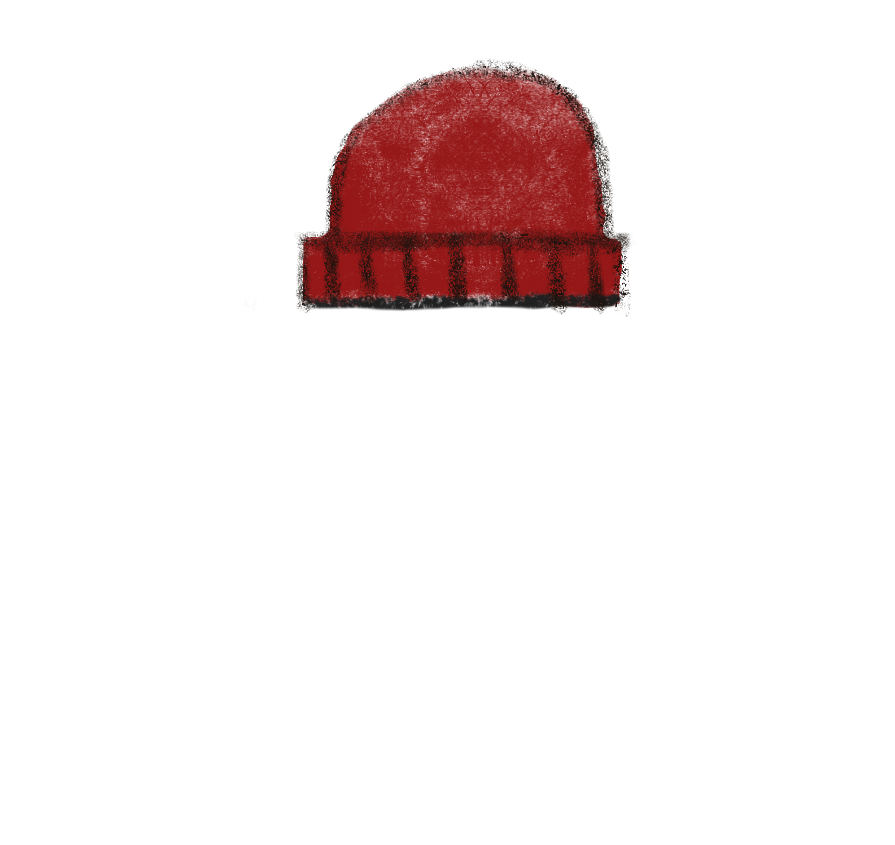
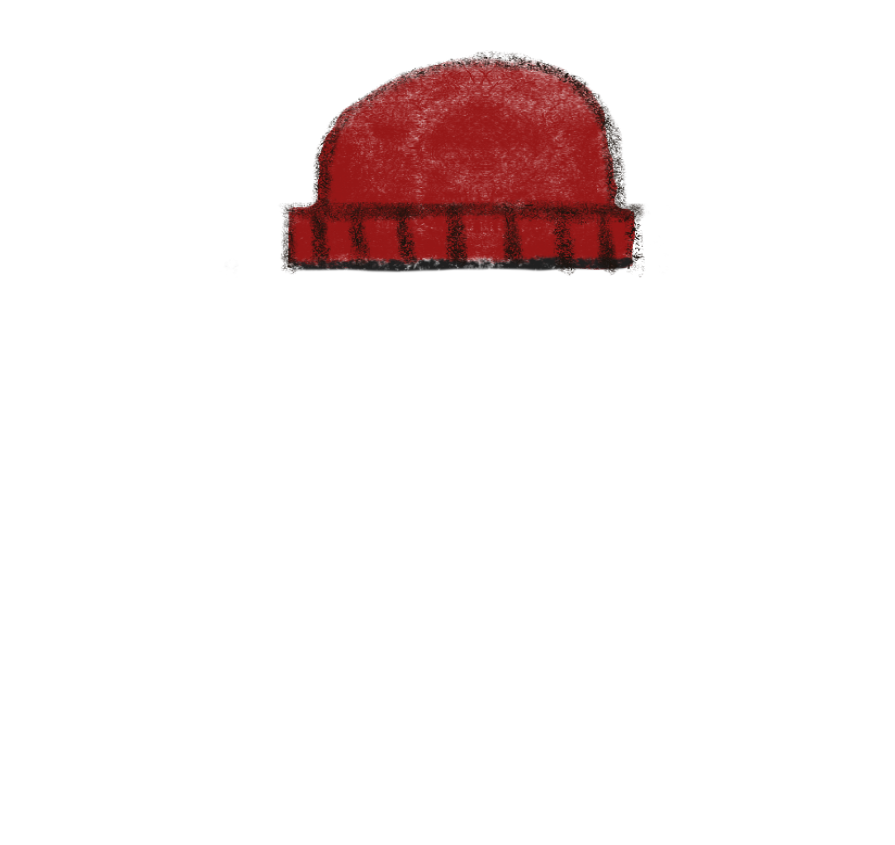
profile image displays correctly on profile page. next step: getting other users' profile images from the social page

Changed region(s): [[0.3017, 0.0615, 0.724, 0.3692]]

diff --git a/src/components/ProfileImage/ProfileImage.jsx b/src/components/ProfileImage/ProfileImage.jsx
@@ -26,10 +26,15 @@ function ProfileImage() {
   const [isEditingClass, setIsEditingClass] = useState('');
 
   const [currentSelections, setCurrentSelections] = useState({
-                            hat: 1, hair: 1,
-                            eyebrows: 1, eyes: 1,
-                            nose: 1, details: 1, mouth: 1,
-                            head: 1,body: 1,
+                            hat: user.profile_avatar_hat_id, 
+                            hair: user.profile_avatar_hair_id,
+                            eyebrows: user.profile_avatar_eyebrows_id, 
+                            eyes: user.profile_avatar_eyes_id,
+                            nose: user.profile_avatar_nose_id, 
+                            details: user.profile_avatar_detail_id, 
+                            mouth: user.profile_avatar_mouth_id,
+                            head: user.profile_avatar_head_id,
+                            body: user.profile_avatar_body_id
                           })
 
   const [detailMode, setDetailMode] = useState(false);
@@ -95,6 +100,8 @@ function ProfileImage() {
     let newProperty = {[newKey]: newValue};
     let newSelections = {...currentSelections, ...newProperty};
     
+    console.log('setting new selections. current:', currentSelections, 'new property:', newProperty);
+
     setCurrentSelections(newSelections);
   }
 
@@ -113,47 +120,56 @@ function ProfileImage() {
 
       <div className="avatarImagePieceParent" onClick={clickImage}>
 
-          {/*HAT*/} <ImagePiece   images={hats} updateCurrentSelections={updateCurrentSelections} pieceName={"hat"}
+          {/*HAT*/} <ImagePiece   images={hats} updateCurrentSelections={updateCurrentSelections} 
+                                  pieceName={"hat"} defaultIndex={user.profile_avatar_hat_id}
                                   topDistance={"40px"} zIndex={10} 
                                   zoomedImgClass={zoomedImageClass} zoomedDivClass={zoomedDividerClass} 
                                   editMode={editingMode} detailEditingMode={!detailMode}/>
 
-          {/*HAIR*/} <ImagePiece  images={hairs} updateCurrentSelections={updateCurrentSelections} pieceName={"hair"}
+          {/*HAIR*/} <ImagePiece  images={hairs} updateCurrentSelections={updateCurrentSelections} 
+                                  pieceName={"hair"} defaultIndex={user.profile_avatar_hair_id}
                                   topDistance={"90px"} zIndex={9} 
                                   zoomedImgClass={zoomedImageClass} zoomedDivClass={zoomedDividerClass} 
                                   editMode={editingMode} detailEditingMode={!detailMode}/>
 
-          {/*BROWS*/} <ImagePiece images={eyebrows} updateCurrentSelections={updateCurrentSelections} pieceName={"eyebrows"}
+          {/*BROWS*/} <ImagePiece images={eyebrows} updateCurrentSelections={updateCurrentSelections} 
+                                  pieceName={"eyebrows"} defaultIndex={user.profile_avatar_eyebrows_id}
                                   topDistance={"60px"} zIndex={6} 
                                   zoomedImgClass={zoomedImageClass} zoomedDivClass={zoomedDividerClass} 
                                   editMode={editingMode} detailEditingMode={detailMode}/>
 
-          {/*EYES*/} <ImagePiece  images={eyes} updateCurrentSelections={updateCurrentSelections} pieceName={"eyes"}
+          {/*EYES*/} <ImagePiece  images={eyes} updateCurrentSelections={updateCurrentSelections} 
+                                  pieceName={"eyes"} defaultIndex={user.profile_avatar_eyes_id}
                                   topDistance={"90px"} zIndex={3} 
                                   zoomedImgClass={zoomedImageClass} zoomedDivClass={zoomedDividerClass} 
                                   editMode={editingMode} detailEditingMode={detailMode}/>
 
-          {/*NOSE*/} <ImagePiece  images={noses} updateCurrentSelections={updateCurrentSelections} pieceName={"nose"}
+          {/*NOSE*/} <ImagePiece  images={noses} updateCurrentSelections={updateCurrentSelections} 
+                                  pieceName={"nose"} defaultIndex={user.profile_avatar_nose_id}
                                   topDistance={"120px"} zIndex={2} 
                                   zoomedImgClass={zoomedImageClass} zoomedDivClass={zoomedDividerClass} 
                                   editMode={editingMode} detailEditingMode={detailMode}/>
 
-          {/*DEET*/} <ImagePiece  images={faceDetails} updateCurrentSelections={updateCurrentSelections} pieceName={"details"}
+          {/*DEET*/} <ImagePiece  images={faceDetails} updateCurrentSelections={updateCurrentSelections} 
+                                  pieceName={"details"} defaultIndex={user.profile_avatar_detail_id}
                                   topDistance={"155px"} zIndex={2} 
                                   zoomedImgClass={zoomedImageClass} zoomedDivClass={zoomedDividerClass} 
                                   editMode={editingMode} detailEditingMode={detailMode}/>
 
-          {/*MOUTH*/} <ImagePiece images={mouths} updateCurrentSelections={updateCurrentSelections} pieceName={"mouth"}
+          {/*MOUTH*/} <ImagePiece images={mouths} updateCurrentSelections={updateCurrentSelections} 
+                                  pieceName={"mouth"} defaultIndex={user.profile_avatar_mouth_id}
                                   topDistance={"185px"} zIndex={2} 
                                   zoomedImgClass={zoomedImageClass} zoomedDivClass={zoomedDividerClass} 
                                   editMode={editingMode} detailEditingMode={detailMode}/>
 
-          {/*HEAD*/} <ImagePiece  images={heads} updateCurrentSelections={updateCurrentSelections} pieceName={"head"}
+          {/*HEAD*/} <ImagePiece  images={heads} updateCurrentSelections={updateCurrentSelections} 
+                                  pieceName={"head"} defaultIndex={user.profile_avatar_head_id}
                                   topDistance={"150px"} zIndex={1} 
                                   zoomedImgClass={zoomedImageClass} zoomedDivClass={zoomedDividerClass} 
                                   editMode={editingMode} detailEditingMode={!detailMode}/>
 
-          {/*BODY*/} <ImagePiece  images={bodies} updateCurrentSelections={updateCurrentSelections} pieceName={"body"}
+          {/*BODY*/} <ImagePiece  images={bodies} updateCurrentSelections={updateCurrentSelections} 
+                                  pieceName={"body"} defaultIndex={user.profile_avatar_body_id}
                                   topDistance={"200px"} zIndex={0} 
                                   zoomedImgClass={zoomedImageClass} zoomedDivClass={zoomedDividerClass} 
                                   editMode={editingMode} detailEditingMode={!detailMode}/>

diff --git a/src/components/ImagePiece/ImagePiece.jsx b/src/components/ImagePiece/ImagePiece.jsx
@@ -5,7 +5,8 @@ import { Button } from 'react-bootstrap';
 function ImagePiece(props) {
 
   const images = props.images;
-  const pieceName = props.pieceName
+  const pieceName = props.pieceName;
+  const defaultImageIndex = props.defaultIndex;
 
   const editingMode = props.editMode;
   const showMyArrows = props.detailEditingMode;
@@ -16,10 +17,13 @@ function ImagePiece(props) {
 
   const dispatch = useDispatch();
 
-  const [selectedImageIndex, setSelectedImageIndex] = useState(1);
-  const [selectedImagePath, setSelectedImagePath] = useState(images[1].image_path);
+                                                          //-1 beccause DB is 1 indexed
+  const [selectedImageIndex, setSelectedImageIndex] = useState(defaultImageIndex-1);
+  const [selectedImagePath, setSelectedImagePath] = useState(images[defaultImageIndex-1].image_path);
 
   useEffect(() => {
+                                          //(+1 to account for 1-indexed DB)
+    updateCurrentSelections(pieceName, defaultImageIndex-1 +1);
   }, []);
 
   

diff --git a/src/redux/sagas/user.saga.js b/src/redux/sagas/user.saga.js
@@ -23,7 +23,7 @@ function* fetchUser() {
     const profileAvatar = yield axios.get('/api/user/profile_avatar', 
       {params: {user_id: response.data.id} })
 
-    //response.data gets all the columns from "user"; profileAvatar.data[0] gets the path of the profile image
+    //response.data gets all the columns from "user"; profileAvatar.data[0] gets the path of the profile images
     //combine these to set our User reducer so the image path will be handy for use  
     let userToSet = {...response.data, ...profileAvatar.data[0]}
 

diff --git a/src/redux/sagas/profileAvatars.saga.js b/src/redux/sagas/profileAvatars.saga.js
@@ -16,7 +16,7 @@ function* updateProfileAvatar(action) {
     yield axios.put(`/api/profileAvatar/${ap.userId}`, 
         { profile_avatar: ap.profileAvatar });
 
-    //todo fetch user stuff, including profile avatar? also do this at login?
+    yield put({ type: 'FETCH_USER' });
 
   } catch (error) {
     console.log('set user profile Avatar request failed', error);
